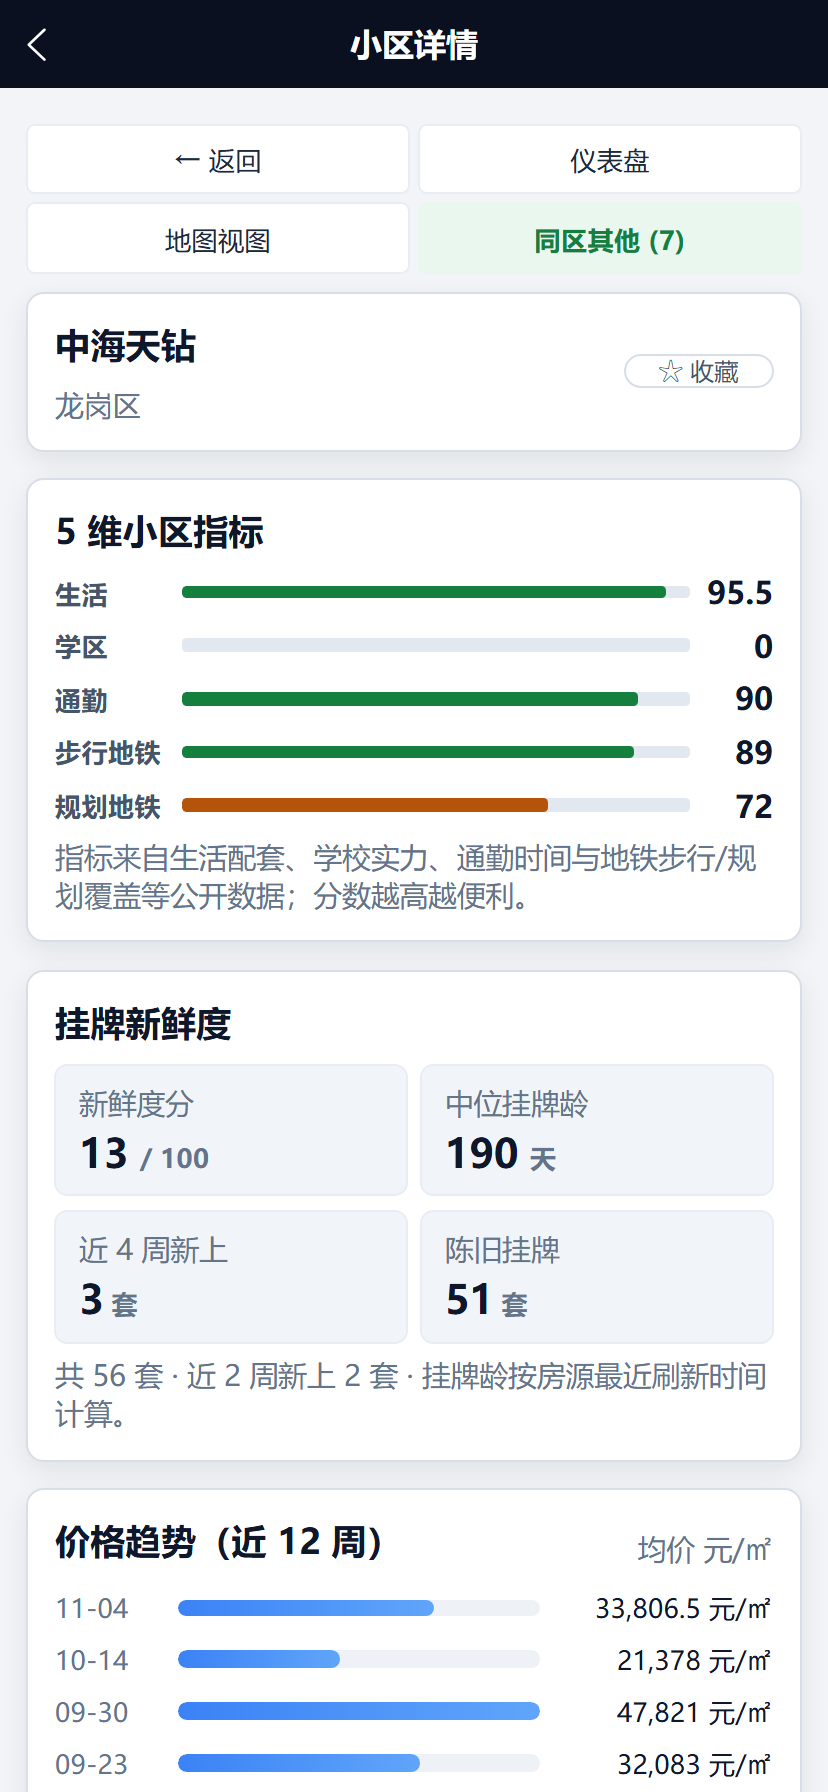
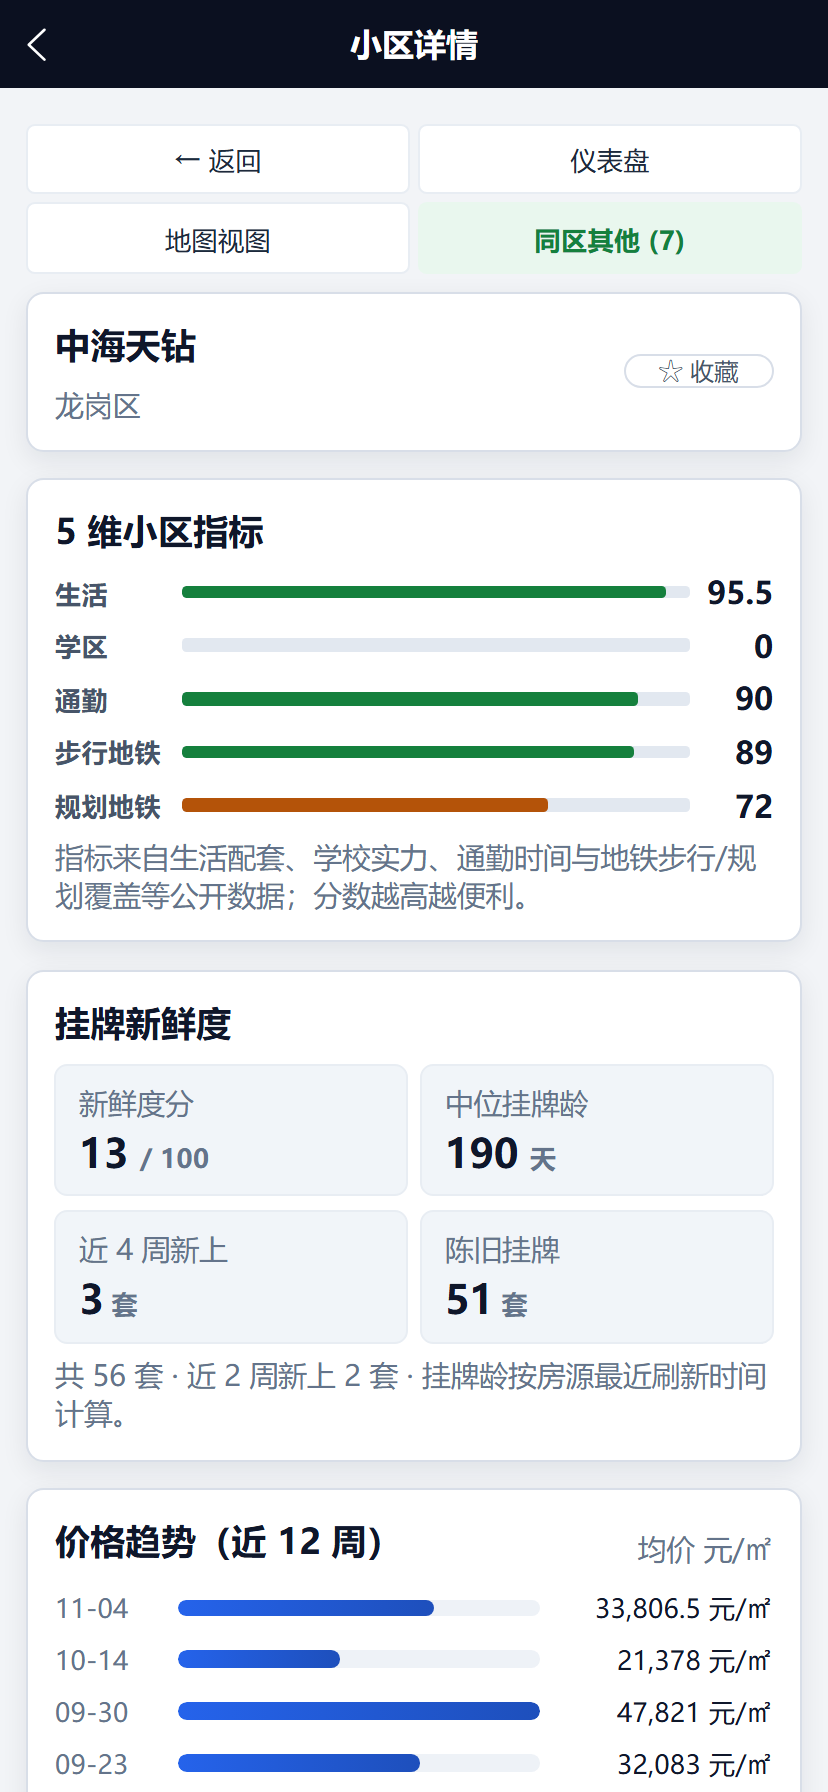
v1.123.84: 全站渐变审计 + 数据可视化柱条 token 化
全站扫描 45 处渐变，区分数据可视化（保留）与 UI 控件（去除）：
- dashboard LPR KPI 卡片去渐变：.lpr-kpi-cell 琥珀渐变+边框
  #fef3c7/#fde68a/#fcd34d → var(--color-warn-soft) + color-mix(warning 35%)；
  .lpr-kpi-cell--5y 红渐变 → var(--color-danger-soft)；
  标签 #78350f → color-mix(warning 75%, #000)
- community .chart-fill/.dim-fill、listing-detail .dim-fill 硬编码蓝渐变
  #3b82f6/#2563eb→#60a5fa → var(--color-focus) + color-mix(focus 80%, #000)
- 删除 App.vue 浅色主题 .score-high/mid/low 冗余硬编码覆盖
  （与 foundation.scss token 值完全一致），消除 6 处硬编码色

更新 layout-diff baseline 以反映本轮颜色变更。

versionCode: 419

Changed region(s): [[0.2114, 0.875, 0.6643, 1.0]]

diff --git a/realty_app/src/pages/dashboard/dashboard.vue b/realty_app/src/pages/dashboard/dashboard.vue
@@ -4838,19 +4838,19 @@ onShow(async () => {
 }
 .lpr-kpi-cell {
   flex: 1;
-  background: linear-gradient(135deg, #fef3c7, #fde68a);
+  background: var(--color-warn-soft);
   border-radius: var(--radius-sm);
   padding: 14rpx 10rpx;
   text-align: center;
-  border: 1rpx solid #fcd34d;
+  border: 1rpx solid color-mix(in srgb, var(--color-warning) 35%, transparent);
 }
 .lpr-kpi-cell--5y {
-  background: linear-gradient(135deg, #fee2e2, #fecaca);
+  background: var(--color-danger-soft);
   border-color: var(--color-trend-up);
 }
 .lpr-kpi-label {
   font-size: var(--font-micro);
-  color: #78350f;
+  color: color-mix(in srgb, var(--color-warning) 75%, #000);
   margin-bottom: 4rpx;
 }
 .lpr-kpi-val {

diff --git a/realty_app/src/App.vue b/realty_app/src/App.vue
@@ -400,23 +400,6 @@ uni-app[data-realty-theme="light"] {
   color: var(--color-text);
 }
 
-/* 浅色下分数胶囊不用「深色霓虹字」 */
-[data-realty-theme="light"] .score-high,
-.realty-theme-light .score-high {
-  background: #ecfdf5;
-  color: #166534;
-}
-[data-realty-theme="light"] .score-mid,
-.realty-theme-light .score-mid {
-  background: #fef3c7;
-  color: #92400e;
-}
-[data-realty-theme="light"] .score-low,
-.realty-theme-light .score-low {
-  background: #fef2f2;
-  color: #991b1b;
-}
-
 /* #ifdef H5 */
 /* H5 端原生 tabBar 标签默认 10px 偏小，提升到与 --font-micro(22rpx≈11.4px) 相当 */
 .uni-tabbar__label {

diff --git a/realty_app/src/pages/community/community.vue b/realty_app/src/pages/community/community.vue
@@ -820,7 +820,7 @@ onMounted(() => {
 
 .chart-fill {
   height: 100%;
-  background: linear-gradient(90deg, #3b82f6, #60a5fa);
+  background: linear-gradient(90deg, var(--color-focus) 0%, color-mix(in srgb, var(--color-focus) 80%, #000) 100%);
   border-radius: var(--radius-sm2);
 }
 
@@ -874,7 +874,7 @@ onMounted(() => {
 
 .dim-fill {
   height: 100%;
-  background: linear-gradient(90deg, #2563eb, #60a5fa);
+  background: linear-gradient(90deg, var(--color-focus) 0%, color-mix(in srgb, var(--color-focus) 80%, #000) 100%);
   border-radius: var(--radius-sm2);
 }
 

diff --git a/realty_app/src/config.ts b/realty_app/src/config.ts
@@ -12,7 +12,7 @@ export const DEFAULT_API_BASE_URL = "http://localhost:8000";
 
 export const APP_NAME = "Realty App";
 // 与 src/manifest.json 的 versionName 同步；CI 出包时会自动覆写
-export const APP_VERSION = "1.123.83";
+export const APP_VERSION = "1.123.84";
 
 export const STORAGE_KEYS = {
   apiBaseUrl: "realty_app.apiBaseUrl",

diff --git a/realty_app/src/pages/listing-detail/listing-detail.vue b/realty_app/src/pages/listing-detail/listing-detail.vue
@@ -881,7 +881,7 @@ button.source-dock-ghost {
 
 .dim-fill {
   height: 100%;
-  background: linear-gradient(90deg, #2563eb, #60a5fa);
+  background: linear-gradient(90deg, var(--color-focus) 0%, color-mix(in srgb, var(--color-focus) 80%, #000) 100%);
   border-radius: var(--radius-sm2);
 }
 

diff --git a/realty_app/README.md b/realty_app/README.md
@@ -10,6 +10,7 @@
 
 | 版本 | 发布日期 | 说明 |
 |------|----------|------|
+| v1.123.84 | 2026-11-05 | 全站渐变审计 + 数据可视化柱条 token 化：① **UI 卡片去渐变**——dashboard LPR KPI 卡片 `.lpr-kpi-cell` 琥珀渐变 `#fef3c7→#fde68a` + 边框 `#fcd34d` → `var(--color-warn-soft)` + `color-mix(var(--color-warning) 35%, transparent)`；`.lpr-kpi-cell--5y` 红渐变 `#fee2e2→#fecaca` → `var(--color-danger-soft)`；标签文字 `#78350f` → `color-mix(var(--color-warning) 75%, #000)`，消除 UI 卡片渐变并统一深浅主题；② **数据可视化柱条 token 化**——community `.chart-fill`/`.dim-fill`、listing-detail `.dim-fill` 的硬编码蓝渐变 `#3b82f6→#60a5fa`/`#2563eb→#60a5fa` → `linear-gradient(90deg, var(--color-focus), color-mix(var(--color-focus) 80%, #000))`，与 wq-fill/trend-bar-fill 既有模式一致；③ **删除冗余覆盖**——App.vue 浅色主题 `.score-high/mid/low` 硬编码覆盖与 foundation.scss token 值完全一致，删除 6 处硬编码色（versionCode 419） |
 | v1.123.83 | 2026-11-05 | 残留 UI 硬编码色 token 化 + 去除违规渐变：① **dashboard 地图模式 tab 选中态**——`.map-mode-tab--active` 靛蓝渐变 `linear-gradient(135deg, #6366f1, #8b5cf6)` → `var(--color-focus)` 纯色，消除 UI 控件渐变（违反 v1.123.73 设计规则），与 `wq-cat-tab-on` 选中态一致；② **dashboard 学区排名数字**——`.sd-rank`/`.sd-rank-sm` 靛蓝文字 `#6366f1` → `var(--color-focus)`；③ **ProgressBar warn 填充**——`.progress-bar__fill--warn` `#f59e0b` → `var(--color-warning)`；④ **community 价格直方图中段**——`.bin-mid` `#f59e0b` → `var(--color-warning)`，与同组 `bin-high`(success)/`bin-low`(danger) 已用 token 对齐（versionCode 418） |
 | v1.123.82 | 2026-11-05 | sky-500 强调色 token 化：全仓扫描残留硬编码 `#0ea5e9`（sky-500）并迁移到 `var(--color-focus)`，覆盖 dashboard（网签品类 tab 选中态、网签进度条渐变、房源新鲜度标题左边框、趋势柱状图渐变）、data-tools（网签进度条渐变、社区价格涨色、价格分段 chip 选中态）、wangqian（spark-bar 第二组渐变）共 8 处；渐变端点统一用 `color-mix(in srgb, var(--color-focus) 80%, #000)` 派生深色端点，浅色模式由 sky-500 切换为品牌蓝 `#2563eb`、深色模式由 sky-400 `#38bdf8` 统一，消除主题间蓝色调不一致；map-view 地铁 POI 标记色属数据可视化，保留原值（versionCode 417） |
 | v1.123.81 | 2026-11-04 | 热力图色阶 token 化 + tag-pill 配色修复 + 地图空区域主题适配：① **trend-analysis 户型×面积热力图**——`.ba-cell--light/mid/deep` 背景 `#eff6ff/#bfdbfe/#1d4ed8` → `var(--color-info-soft)` / `color-mix(in srgb, var(--color-accent) 35%, #fff)` / `var(--color-accent)`，深色模式自动适配；② **listing-filter tag-pill 配色 bug 修复**——背景 `rgba(37,99,235,.12)`（蓝）配文字 `var(--color-primary)`（绿）颜色不匹配 → `var(--color-primary-soft)`（绿底绿字一致）；③ **dashboard 地图空区域**——`districtFill` 返回 `#f1f5f9`（浅灰）→ `var(--color-panel-soft)`，修复深色模式空区域过亮问题（versionCode 416） |
@@ -710,6 +711,10 @@ gh auth setup-git
 ## 更新日志
 
 详细变更见 [changelog/](./changelog/) 目录。
+
+### v1.123.84（2026-11-05）：全站渐变审计 + 数据可视化柱条 token 化
+
+全站扫描 45 处渐变，区分数据可视化（保留）与 UI 控件（去除），并 token 化硬编码色：① **UI 卡片去渐变**——dashboard LPR KPI 卡片 `.lpr-kpi-cell` 琥珀渐变 `#fef3c7→#fde68a` + 边框 `#fcd34d` → `var(--color-warn-soft)` + `color-mix(var(--color-warning) 35%, transparent)`；`.lpr-kpi-cell--5y` 红渐变 `#fee2e2→#fecaca` → `var(--color-danger-soft)`；标签文字 `#78350f` → `color-mix(var(--color-warning) 75%, #000)`，消除 UI 卡片渐变并统一深浅主题；② **数据可视化柱条 token 化**——community `.chart-fill`/`.dim-fill`、listing-detail `.dim-fill` 的硬编码蓝渐变 → `linear-gradient(90deg, var(--color-focus), color-mix(var(--color-focus) 80%, #000))`，与 wq-fill/trend-bar-fill 既有模式一致；③ **删除冗余覆盖**——App.vue 浅色主题 `.score-high/mid/low` 硬编码覆盖与 foundation.scss token 值完全一致，删除 6 处硬编码色。详见 [changelog/2026-11-05-v1.123.84-全站渐变审计与柱条token化.md](./changelog/2026-11-05-v1.123.84-全站渐变审计与柱条token化.md)。
 
 ### v1.123.83（2026-11-05）：残留 UI 硬编码色 token 化 + 去除违规渐变
 

diff --git a/realty_app/changelog/2026-11-05-v1.123.84-全站渐变审计与柱条token化.md b/realty_app/changelog/2026-11-05-v1.123.84-全站渐变审计与柱条token化.md
@@ -1,0 +1,54 @@
+# v1.123.84 · 全站渐变审计 + 数据可视化柱条 token 化
+
+## 背景
+
+v1.123.83 去除了 map-mode-tab 的违规渐变后，继续执行全站渐变审计。扫描到 45 处 `linear-gradient`/`radial-gradient`，按 v1.123.73 设计规则「UI 控件不使用渐变」分类：数据可视化渐变（图表柱条、进度条、热力图色阶）保留，UI 控件渐变（卡片、按钮、tab）去除。同时将数据可视化柱条中的硬编码蓝色 token 化。
+
+## 修复内容
+
+### 1. UI 卡片去渐变（dashboard.vue）
+
+LPR KPI 卡片使用装饰性渐变，违反 UI 控件不使用渐变的规则，且硬编码色不随主题切换：
+
+| 元素 | 原值 | 新值 |
+|------|------|------|
+| `.lpr-kpi-cell` 背景 | `linear-gradient(135deg, #fef3c7, #fde68a)` | `var(--color-warn-soft)` |
+| `.lpr-kpi-cell` 边框 | `#fcd34d` | `color-mix(in srgb, var(--color-warning) 35%, transparent)` |
+| `.lpr-kpi-cell--5y` 背景 | `linear-gradient(135deg, #fee2e2, #fecaca)` | `var(--color-danger-soft)` |
+| `.lpr-kpi-label` 文字 | `#78350f` | `color-mix(in srgb, var(--color-warning) 75%, #000)` |
+
+### 2. 数据可视化柱条 token 化
+
+community `.chart-fill`/`.dim-fill`、listing-detail `.dim-fill` 的硬编码蓝渐变统一为既有模式（与 wq-fill/trend-bar-fill 一致）：
+
+```css
+/* 旧 */
+background: linear-gradient(90deg, #3b82f6, #60a5fa);
+background: linear-gradient(90deg, #2563eb, #60a5fa);
+/* 新 */
+background: linear-gradient(90deg, var(--color-focus) 0%, color-mix(in srgb, var(--color-focus) 80%, #000) 100%);
+```
+
+### 3. 删除冗余硬编码覆盖（App.vue）
+
+浅色主题 `.score-high/mid/low` 的硬编码覆盖与 foundation.scss 中 token 值完全一致（`--color-warn-soft` 浅色即为 `#fef3c7`，`--color-on-warn-soft` 浅色即为 `#92400e`），删除 15 行冗余 CSS，消除 6 处硬编码色。
+
+## 保留（数据可视化渐变）
+
+- stats70 进度条渐变、data-tools 奖牌渐变、listing-filter mini 维度条渐变、foundation 奖牌渐变：数据可视化装饰，保留
+- dashboard trend-bar-fill / wq-fill、wangqian spark-bar：已 token 化，保留
+- App.vue / listing-filter / school-detail hero 背景径向渐变：页面装饰背景，非 UI 控件，保留
+- map-view mask-image 渐变：功能型遮罩，保留
+- map-analysis 地图色阶渐变：数据可视化，保留
+
+## 验证
+
+- `npm run type-check`：0 错误
+- `npm run build:h5`：通过
+- `run_suite core`：13/13（smoke_full_pages 单独跑 22 页面 0 失败，仅 map_view 外部资源 ERR_TIMED_OUT）
+- `run_suite extended`：10/10
+- `layout-diff`：基线更新后 PASS（+0/-0，元素 2542，锚点组 42/42）
+- 颜色复查（browser_evaluate，深色主题）：
+  - lpr-kpi-cell 1Y: bg `rgba(234,179,8,0.16)`=`--color-warn-soft`，border `color-mix(warning 35%)`
+  - lpr-kpi-cell 5Y: bg `rgba(239,68,68,0.16)`=`--color-danger-soft`，border `var(--color-trend-up)`
+  - lpr-kpi-label: `color-mix(warning 75%, #000)` 深琥珀色，对比度良好
